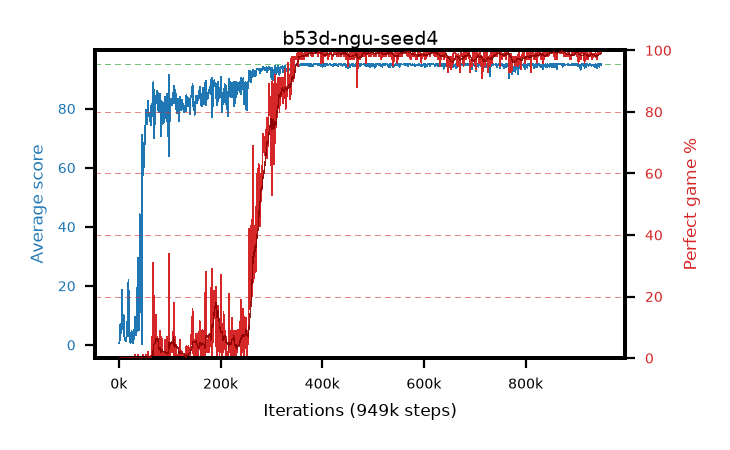
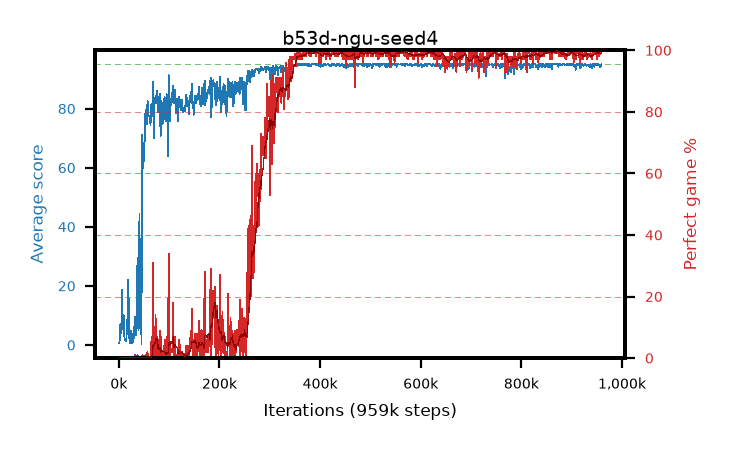
live pictures of 4 arm(s)

diff --git a/results/b53d-ngu-seed4/b53d-ngu-seed4.md b/results/b53d-ngu-seed4/b53d-ngu-seed4.md
@@ -1,6 +1,6 @@
 # b53d-ngu-seed4
 
-step **949,000** · 949 evals · trailing **94.7** · peak **94.92** @572,000 · sef **68.2** · best30 **99.4** @872,000
+step **959,000** · 959 evals · trailing **94.69** · peak **94.92** @572,000 · sef **68.5** · best30 **99.4** @872,000
 
 ## Config
 
@@ -80,15 +80,15 @@ step **949,000** · 949 evals · trailing **94.7** · peak **94.92** @572,000 ·
 | 2000 | 2.39 | 1.47 | 0.0 | 8.0 | 1.286 | 0.0 | 0.4 |
 | 3000 | 6.99 | 3.31 | 0.0 | 25.0 | 5.34 | 0.0 | 0.4 |
 | ... | ... | ... | ... | ... | ... | ... | ... |
-| 938000 | 94.97 | 94.71 | 92.0 | 95.0 | 192.647 | 99.0 | 0.4 |
-| 939000 | 94.22 | 94.72 | 24.0 | 95.0 | 190.828 | 98.0 | 0.4 |
-| 940000 | 94.11 | 94.69 | 11.0 | 95.0 | 189.738 | 97.0 | 0.4 |
-| 941000 | 93.67 | 94.65 | 15.0 | 95.0 | 189.336 | 97.0 | 0.4 |
-| 942000 | 94.97 | 94.65 | 92.0 | 95.0 | 192.658 | 99.0 | 0.4 |
-| 943000 | 95.0 | 94.66 | 95.0 | 95.0 | 193.7 | 100.0 | 0.4 |
-| 944000 | 95.0 | 94.66 | 95.0 | 95.0 | 193.687 | 100.0 | 0.4 |
-| 945000 | 94.18 | 94.63 | 13.0 | 95.0 | 191.832 | 99.0 | 0.4 |
-| 946000 | 94.91 | 94.67 | 86.0 | 95.0 | 192.566 | 99.0 | 0.4 |
-| 947000 | 95.0 | 94.67 | 95.0 | 95.0 | 193.701 | 100.0 | 0.4 |
 | 948000 | 95.0 | 94.67 | 95.0 | 95.0 | 193.702 | 100.0 | 0.4 |
 | 949000 | 94.91 | 94.7 | 86.0 | 95.0 | 192.554 | 99.0 | 0.4 |
+| 950000 | 94.82 | 94.7 | 85.0 | 95.0 | 190.433 | 97.0 | 0.4 |
+| 951000 | 94.97 | 94.7 | 92.0 | 95.0 | 192.669 | 99.0 | 0.4 |
+| 952000 | 95.0 | 94.7 | 95.0 | 95.0 | 193.709 | 100.0 | 0.4 |
+| 953000 | 95.0 | 94.72 | 95.0 | 95.0 | 193.701 | 100.0 | 0.4 |
+| 954000 | 94.93 | 94.72 | 88.0 | 95.0 | 192.578 | 99.0 | 0.4 |
+| 955000 | 94.93 | 94.72 | 91.0 | 95.0 | 191.595 | 98.0 | 0.4 |
+| 956000 | 94.06 | 94.69 | 1.0 | 95.0 | 191.756 | 99.0 | 0.4 |
+| 957000 | 94.95 | 94.69 | 90.0 | 95.0 | 192.604 | 99.0 | 0.4 |
+| 958000 | 94.42 | 94.67 | 37.0 | 95.0 | 192.076 | 99.0 | 0.4 |
+| 959000 | 95.0 | 94.69 | 95.0 | 95.0 | 193.682 | 100.0 | 0.4 |
